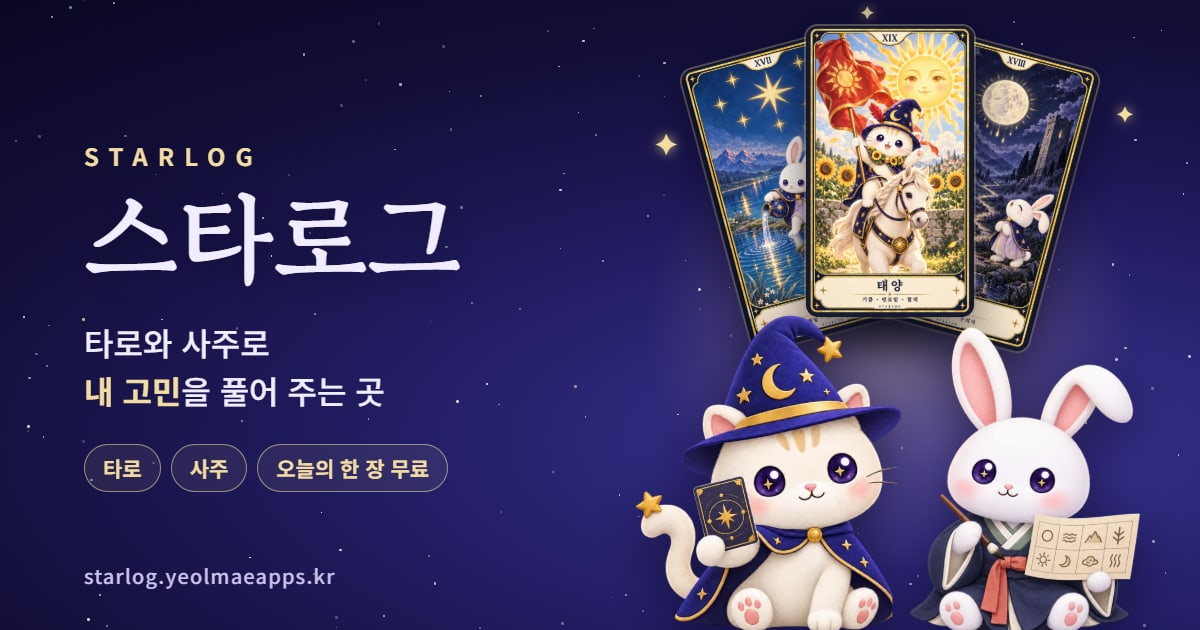
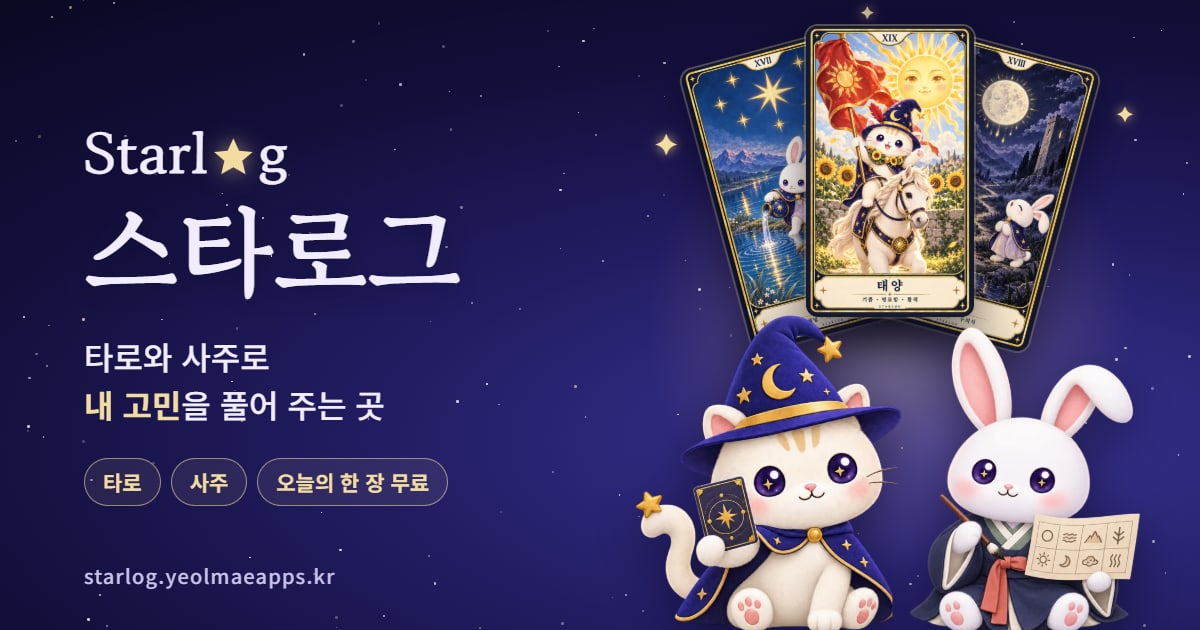
chore(brand): the thumbnail's English name is the site wordmark, Starl★g, larger
Owner 2026-10-13: the o is the gold star, as in the header.

Changed region(s): [[0.0617, 0.2111, 0.4008, 0.4825], [0.0617, 0.5127, 0.3392, 0.6635], [0.0617, 0.7238, 0.37, 0.8143]]

diff --git a/apps/web/assets/brand/thumbnail.html b/apps/web/assets/brand/thumbnail.html
@@ -18,8 +18,9 @@
   .star { position: absolute; border-radius: 50%; background: #fff; }
   .stage { position: relative; width: 1200px; height: 630px; flex: none; transform-origin: center; }
   .text { position: absolute; left: 84px; top: 0; bottom: 0; width: 560px; display: flex; flex-direction: column; justify-content: center; }
-  .eyebrow { color: var(--gold); font-weight: 700; font-size: 24px; letter-spacing: 0.42em; }
-  .name { margin-top: 10px; font-family: "Gowun Batang", serif; font-weight: 700; font-size: 104px; line-height: 1.05; letter-spacing: -0.01em;
+  .wordmark { display: inline-flex; align-items: baseline; font-family: "Gowun Batang", serif; font-weight: 700; font-size: 58px; line-height: 1; color: var(--ink); letter-spacing: 0.01em; }
+  .wordmark svg { width: 0.84em; height: 0.84em; margin: 0 0.01em 0 0.02em; align-self: center; transform: translateY(0.07em); fill: var(--gold); filter: drop-shadow(0 0 10px rgba(243, 220, 161, 0.55)); }
+  .name { margin-top: 14px; font-family: "Gowun Batang", serif; font-weight: 700; font-size: 104px; line-height: 1.05; letter-spacing: -0.01em;
           text-shadow: 0 6px 30px rgba(10, 6, 40, 0.6); }
   .tagline { margin-top: 26px; font-size: 32px; line-height: 1.5; color: var(--ink); font-weight: 500; }
   .tagline b { color: var(--gold); font-weight: 700; }
@@ -45,7 +46,7 @@
 <div id="sky"></div>
 <div class="stage" id="stage">
   <div class="text">
-    <p class="eyebrow">STARLOG</p>
+    <p class="wordmark" aria-label="Starlog"><span>Starl</span><svg viewBox="0 0 24 24"><path d="M12 2.5l2.8 6.2 6.7.6-5.1 4.4 1.6 6.6L12 16.8 6 20.3l1.6-6.6-5.1-4.4 6.7-.6z"/></svg><span>g</span></p>
     <h1 class="name">스타로그</h1>
     <p class="tagline">타로와 사주로<br><b>내 고민</b>을 풀어 주는 곳</p>
     <div class="chips"><span class="chip">타로</span><span class="chip">사주</span><span class="chip">오늘의 한 장 무료</span></div>
